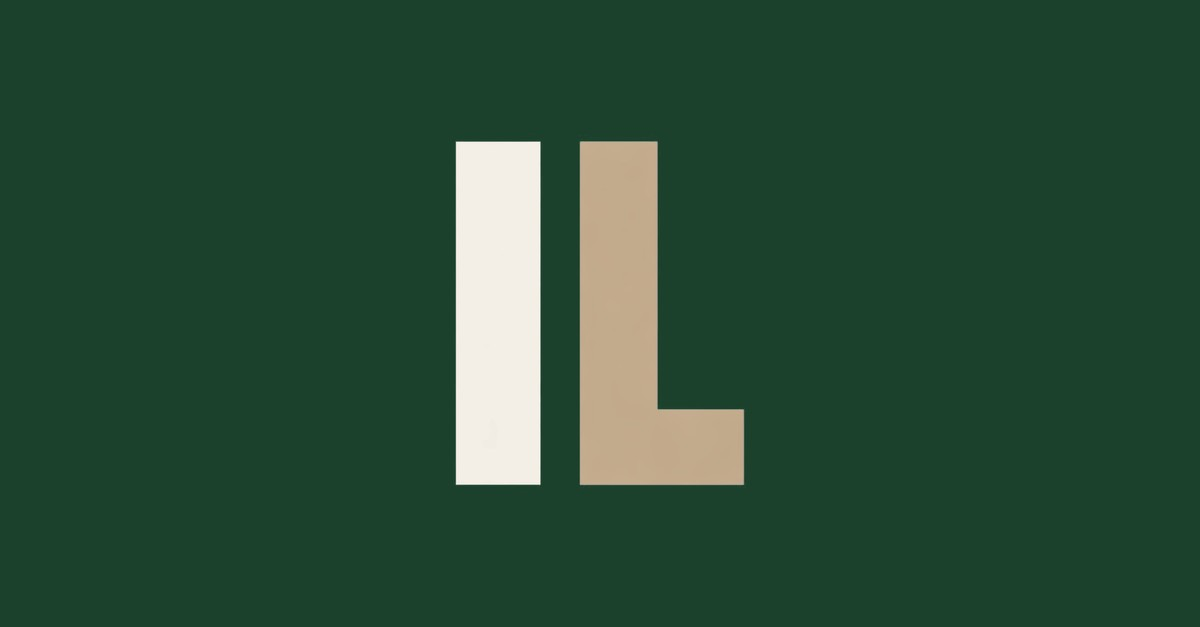
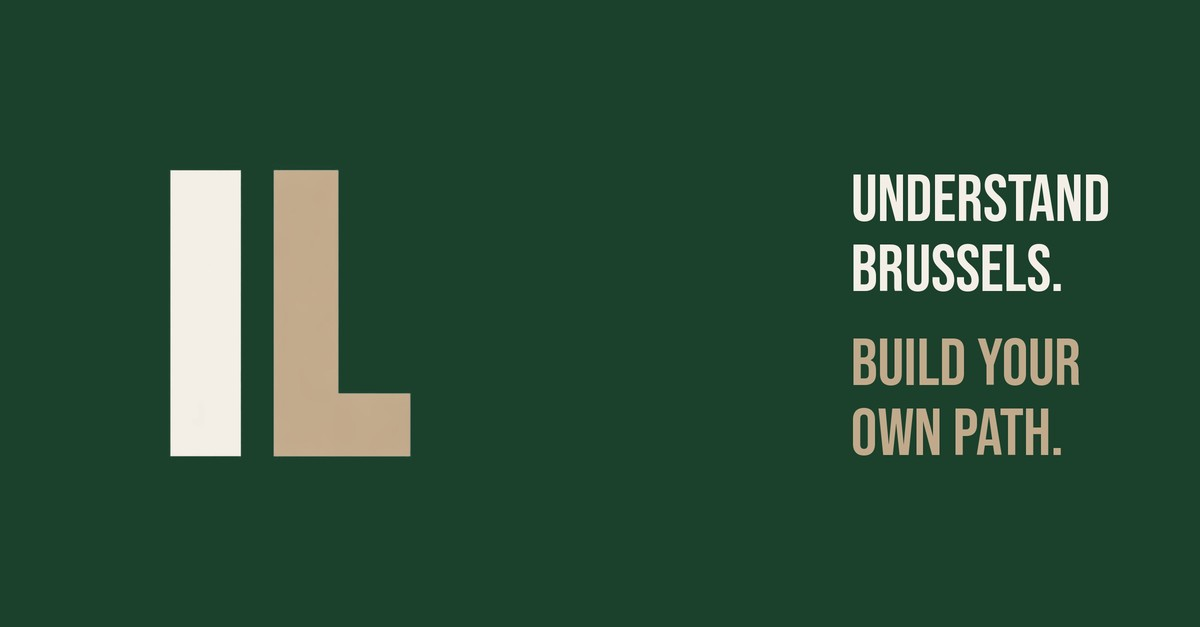
Sito v58: immagine delle anteprime con IL a sinistra e frase a destra, centro libero
Claude-Session: https://claude.ai/code/session_0198u3mm63fnQ8h5b8nE4Az1

Changed region(s): [[0.1233, 0.2121, 0.6475, 0.7879], [0.7092, 0.5152, 0.925, 0.7273], [0.7092, 0.2727, 0.925, 0.4848]]

diff --git a/index.html b/index.html
@@ -13,7 +13,7 @@
 <meta property="og:image" content="https://www.iteralab.eu/assets/images/og-image.jpg"/>
 <meta property="og:image:width" content="1200"/>
 <meta property="og:image:height" content="627"/>
-<meta property="og:image:alt" content="IteraLab logo"/>
+<meta property="og:image:alt" content="IteraLab — Understand Brussels. Build your own path."/>
 <meta name="twitter:card" content="summary_large_image"/>
 <meta name="twitter:title" content="Understand Brussels. Build your own path. | IteraLab"/>
 <meta name="twitter:description" content="A six-day career orientation programme in Brussels for students, recent graduates and young professionals who want to turn an interest in Europe into a concrete professional path."/>

diff --git a/student-application.html b/student-application.html
@@ -13,7 +13,7 @@
 <meta property="og:image" content="https://www.iteralab.eu/assets/images/og-image.jpg"/>
 <meta property="og:image:width" content="1200"/>
 <meta property="og:image:height" content="627"/>
-<meta property="og:image:alt" content="IteraLab logo"/>
+<meta property="og:image:alt" content="IteraLab — Understand Brussels. Build your own path."/>
 <meta name="twitter:card" content="summary_large_image"/>
 <meta name="twitter:title" content="Apply to the IteraLab Spring Programme 2027"/>
 <meta name="twitter:description" content="Application form for the IteraLab Spring Programme 2027: six days in Brussels to turn an interest in Europe into a concrete professional path."/>
